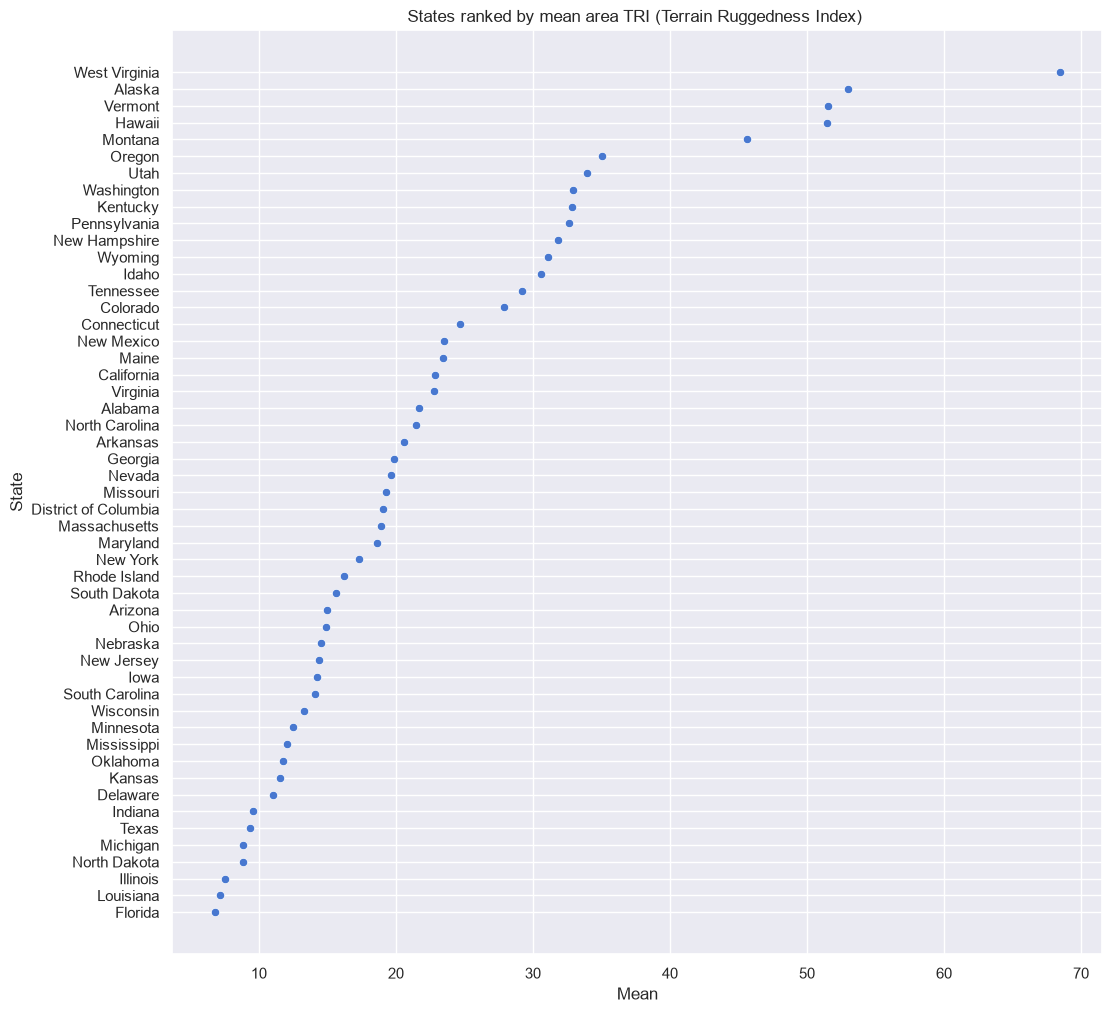
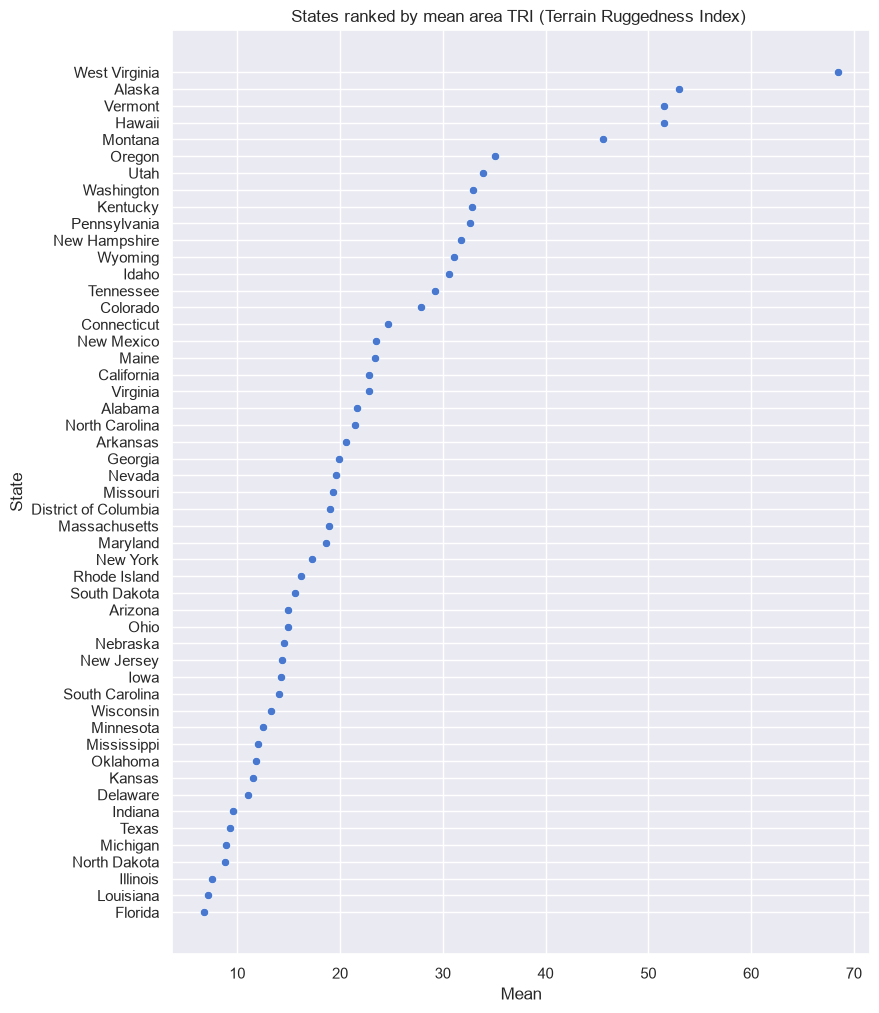
Put images in a seperate folder + added .gitignore file

diff --git a/TRI_Mean analysis.py b/TRI_Mean analysis.py
@@ -25,7 +25,7 @@ def state_road_TRI_plot(stats: pd.DataFrame, state_col: str, stat_col: str )-> N
     plt.title(f'States ranked by mean road TRI (Terrain Ruggedness Index) ')
     plt.ylabel('State')
     plt.xlabel('Mean')
-    plt.savefig('scatter_plot_road_TRI.png', bbox_inches='tight')
+    plt.savefig('images/scatter_plot_road_TRI.png', bbox_inches='tight')
 
 def state_area_TRI_plot(stats: pd.DataFrame, state_col: str, stat_col: str )-> None:
     stats = stats.reset_index()
@@ -34,7 +34,7 @@ def state_area_TRI_plot(stats: pd.DataFrame, state_col: str, stat_col: str )-> N
     plt.title(f'States ranked by mean area TRI (Terrain Ruggedness Index) ')
     plt.ylabel('State')
     plt.xlabel('Mean')
-    plt.savefig('scatter_plot_area_TRI.png', bbox_inches='tight')
+    plt.savefig('images/scatter_plot_area_TRI.png', bbox_inches='tight')
 
 def main():
     df = read_ruggedness_data('(read)ruggedness-scales-2020-tracts.xlsx',
